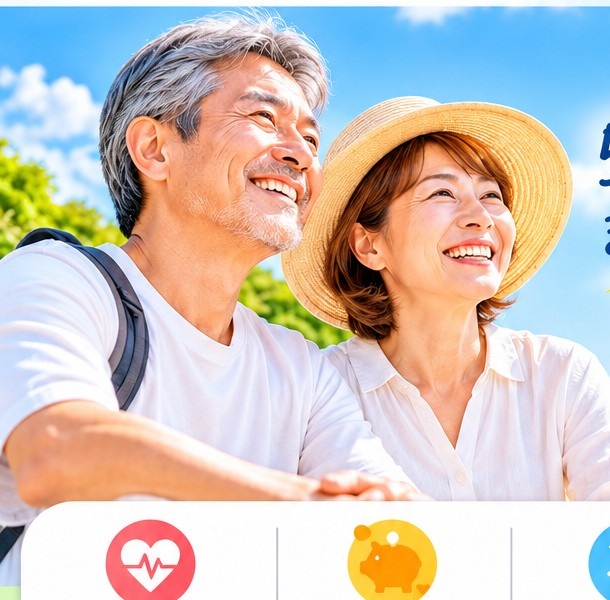
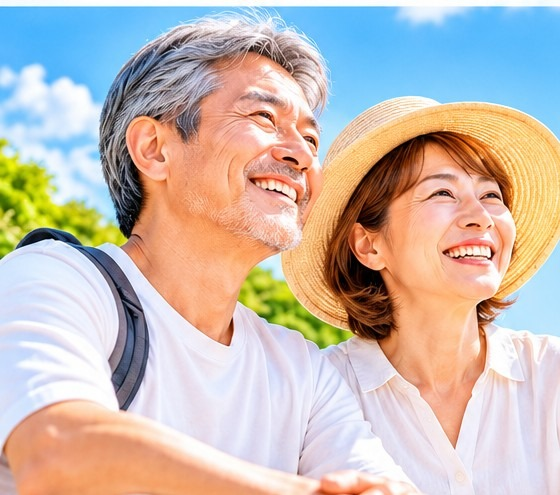
Add files via upload

diff --git a/index.html b/index.html
@@ -7,30 +7,44 @@
 <title>It's My Life 50+｜50代からの、もっと楽しい人生を</title>
 <style>
 :root{--blue:#07519a;--deep:#123e70;--sky:#eaf7ff;--green:#75bd39;--cream:#fbfff0;--gold:#f5c928}
-*{box-sizing:border-box}html{scroll-behavior:smooth}body{margin:0;font-family:"Hiragino Kaku Gothic ProN","Yu Gothic",Meiryo,sans-serif;color:#20334a;background:#f5fbff}
+*{box-sizing:border-box}html{scroll-behavior:smooth;scroll-padding-top:18px}
+body{margin:0;font-family:"Hiragino Kaku Gothic ProN","Yu Gothic",Meiryo,sans-serif;color:#20334a;background:#f5fbff}
 a{color:inherit;text-decoration:none}.wrap{max-width:1100px;margin:auto}
 header{background:linear-gradient(100deg,#fff 0%,#f4fbff 55%,#bce5ff 100%);padding:12px 4%;display:flex;align-items:center;gap:16px;position:relative;z-index:5}
 .tree{width:72px;height:72px;flex:none}.brand{min-width:0;color:var(--blue)}.brand-name{font-family:Georgia,serif;font-style:italic;font-weight:bold;font-size:clamp(28px,5vw,48px);line-height:1.05;white-space:nowrap}.tagline{font-size:clamp(12px,2.2vw,19px);font-weight:700;margin-top:5px;letter-spacing:.04em}
 .menu{margin-left:auto;border:0;border-radius:15px;background:#fff;color:var(--blue);font-size:29px;width:60px;height:54px;box-shadow:0 2px 10px #78a8c533;cursor:pointer}
-.hero{position:relative;min-height:480px;overflow:hidden;background:#8fd2fa}
-.hero-photo{position:absolute;inset:0;width:100%;height:100%;object-fit:cover;object-position:35% center}
-.hero:after{content:"";position:absolute;inset:0;background:linear-gradient(90deg,transparent 35%,rgba(226,246,255,.15) 48%,rgba(222,244,255,.92) 100%)}
-.hero-copy{position:relative;z-index:1;margin-left:auto;width:47%;padding:85px 5% 100px 0;color:var(--blue);text-align:center}
-.hero-copy h1{font-size:clamp(30px,5vw,56px);line-height:1.35;margin:0 0 24px;font-weight:900;letter-spacing:.02em}
-.underline{height:7px;width:82%;margin:-12px auto 28px;border-bottom:6px solid var(--gold);border-radius:50%;transform:rotate(-5deg)}
-.hero-copy p{font-weight:800;font-size:clamp(16px,2.2vw,23px);line-height:1.7;margin:0}
-.categories{position:relative;z-index:2;max-width:1000px;margin:-44px auto 0;padding:14px 10px;background:#fff;border-radius:28px;box-shadow:0 8px 20px #1a5c8b2b;display:grid;grid-template-columns:repeat(4,1fr)}
-.cat{display:flex;flex-direction:column;align-items:center;gap:7px;padding:8px 4px;color:#26384a;font-weight:800;font-size:clamp(13px,2vw,18px);border-right:1px solid #d5dce2}.cat:last-child{border:0}
-.cat-icon{width:58px;height:58px;border-radius:50%;display:grid;place-items:center;color:#fff;font-size:30px}.red{background:#ff6e75}.yellow{background:#ffc629}.cyan{background:#4db9e9}.lime{background:#78c83d}
-.welcome{padding:52px 5% 26px;text-align:center;background:linear-gradient(180deg,#f5ffdf,#fffef4 75%,#eff9ff)}
+.hero{display:grid;grid-template-columns:57% 43%;min-height:440px;background:linear-gradient(135deg,#d9f1ff,#effaff);overflow:hidden}
+.hero-visual{min-width:0;min-height:440px;overflow:hidden}
+.hero-photo{width:100%;height:100%;min-height:440px;display:block;object-fit:cover;object-position:center 37%}
+.hero-copy{display:flex;flex-direction:column;justify-content:center;align-items:center;padding:42px 8%;color:var(--blue);text-align:center;background:linear-gradient(145deg,#e6f6ff,#ccecff)}
+.hero-copy h1{font-size:clamp(30px,4.2vw,52px);line-height:1.4;margin:0 0 20px;font-weight:900;letter-spacing:.02em}
+.underline{height:7px;width:82%;margin:0 auto 24px;border-bottom:6px solid var(--gold);border-radius:50%;transform:rotate(-5deg)}
+.hero-copy p{font-weight:800;font-size:clamp(16px,2vw,22px);line-height:1.8;margin:0}
+.categories{position:relative;z-index:2;max-width:1000px;margin:-34px auto 0;padding:13px 10px;background:#fff;border-radius:26px;box-shadow:0 8px 20px #1a5c8b2b;display:grid;grid-template-columns:repeat(4,1fr)}
+.cat{display:flex;flex-direction:column;align-items:center;justify-content:center;gap:7px;padding:8px 4px;color:#26384a;font-weight:800;font-size:clamp(13px,2vw,18px);border-right:1px solid #d5dce2;text-align:center}
+.cat:last-child{border:0}.cat-icon{width:58px;height:58px;border-radius:50%;display:grid;place-items:center;color:#fff;font-size:30px}.red{background:#ff6e75}.yellow{background:#ffc629}.cyan{background:#4db9e9}.lime{background:#78c83d}
+.welcome{padding:48px 5% 26px;text-align:center;background:linear-gradient(180deg,#f5ffdf,#fffef4 75%,#eff9ff)}
 .welcome h2{color:#26384a;font-size:clamp(25px,4vw,42px);margin:0 0 18px;line-height:1.35}.welcome h2 em{font-family:Georgia,serif;color:var(--blue);font-weight:bold}
 .leaves{color:#70b83b;font-size:30px;letter-spacing:8px}.welcome p{font-size:clamp(16px,2.3vw,23px);line-height:1.8;font-weight:700;margin:0 auto 24px;max-width:850px}
-.cards{display:grid;grid-template-columns:repeat(3,1fr);gap:18px;max-width:1000px;margin:0 auto 40px;padding:0 4% 44px}
-.card{background:#fff;border-radius:18px;overflow:hidden;box-shadow:0 3px 9px #163c5b25;border:1px solid #dce5e8;transition:transform .2s}.card:hover{transform:translateY(-4px)}
-.card img{width:100%;height:175px;object-fit:cover;display:block}.card-label{padding:13px 12px;font-weight:800;font-size:clamp(15px,2vw,20px);display:flex;align-items:center;gap:9px}.arrow{background:#1599e8;color:white;width:24px;height:24px;border-radius:50%;display:grid;place-items:center;flex:none}
+.cards{display:grid;grid-template-columns:repeat(4,1fr);gap:18px;max-width:1000px;margin:0 auto 40px;padding:0 4% 44px}
+.card{background:#fff;border-radius:18px;overflow:hidden;box-shadow:0 3px 9px #163c5b25;border:1px solid #dce5e8;transition:transform .2s;display:block}
+.card:hover{transform:translateY(-4px)}.card img{width:100%;height:155px;object-fit:cover;display:block}
+.card-label{padding:13px 12px;font-weight:800;font-size:clamp(14px,1.55vw,18px);display:flex;align-items:center;gap:9px}
+.arrow{background:#1599e8;color:white;width:24px;height:24px;border-radius:50%;display:grid;place-items:center;flex:none}
+.work-art{height:155px;background:linear-gradient(135deg,#d8f4ff,#dff5d3);display:flex;flex-direction:column;align-items:center;justify-content:center;gap:8px;color:#17629a}
+.work-art span{font-size:66px;line-height:1}.work-art small{font-size:14px;font-weight:800}
 footer{text-align:center;padding:26px;background:#e5f5ff;color:#315575;font-size:14px}
-.drawer{display:none;position:absolute;right:4%;top:90px;background:#fff;border-radius:16px;box-shadow:0 8px 24px #173e5b30;padding:12px;min-width:190px}.drawer.open{display:grid}.drawer a{padding:12px;border-bottom:1px solid #edf1f4;color:var(--blue);font-weight:700}
-@media(max-width:650px){header{gap:9px;padding:10px 4%}.tree{width:54px;height:60px}.brand-name{font-size:clamp(24px,6vw,34px)}.tagline{font-size:11px}.menu{width:48px;height:46px;font-size:24px}.hero{min-height:430px}.hero-photo{object-position:28% center}.hero:after{background:linear-gradient(90deg,transparent 5%,rgba(224,245,255,.08) 42%,rgba(224,245,255,.88) 100%)}.hero-copy{width:53%;padding:85px 3% 100px 0}.hero-copy h1{font-size:clamp(23px,6vw,34px)}.hero-copy p{font-size:13px}.categories{margin:-38px 4% 0;padding:10px 4px;border-radius:22px}.cat{font-size:11px;gap:5px}.cat-icon{width:43px;height:43px;font-size:23px}.welcome{padding:38px 4% 20px}.welcome h2{font-size:24px}.welcome p{font-size:15px}.cards{gap:9px;padding:0 3% 30px}.card{border-radius:13px}.card img{height:105px}.card-label{font-size:12px;padding:9px 6px;gap:5px}.arrow{width:19px;height:19px;font-size:13px}}
+.drawer{display:none;position:absolute;right:4%;top:90px;background:#fff;border-radius:16px;box-shadow:0 8px 24px #173e5b30;padding:12px;min-width:190px}
+.drawer.open{display:grid}.drawer a{padding:12px;border-bottom:1px solid #edf1f4;color:var(--blue);font-weight:700}
+@media(max-width:700px){
+ header{gap:9px;padding:10px 4%}.tree{width:54px;height:60px}.brand-name{font-size:clamp(23px,6vw,34px)}.tagline{font-size:11px}.menu{width:48px;height:46px;font-size:24px}
+ .hero{display:flex;flex-direction:column;min-height:0}.hero-visual{height:290px;min-height:0}.hero-photo{height:290px;min-height:0;object-position:center 35%}
+ .hero-copy{padding:25px 7% 34px}.hero-copy h1{font-size:clamp(27px,7vw,36px);margin-bottom:12px}.underline{margin-bottom:16px}.hero-copy p{font-size:15px}
+ .categories{margin:-22px 4% 0;padding:9px 3px;border-radius:20px}.cat{font-size:11px;gap:5px;padding:6px 2px}.cat-icon{width:43px;height:43px;font-size:23px}
+ .welcome{padding:35px 4% 20px}.welcome h2{font-size:24px}.welcome p{font-size:15px}
+ .cards{grid-template-columns:repeat(2,minmax(0,1fr));gap:10px;padding:0 3% 30px}.card{border-radius:13px}.card img,.work-art{height:120px}.card-label{font-size:13px;padding:9px 7px;gap:5px}.arrow{width:19px;height:19px;font-size:13px}.work-art span{font-size:52px}.work-art small{font-size:12px}
+}
+@media(min-width:701px) and (max-width:900px){.cards{gap:12px}.card img,.work-art{height:135px}.card-label{font-size:14px;padding:10px 8px}}
 </style>
 </head>
 <body>
@@ -38,21 +52,25 @@ footer{text-align:center;padding:26px;background:#e5f5ff;color:#315575;font-size
 <svg class="tree" viewBox="0 0 100 100" aria-label="木のロゴ"><path d="M49 91V43M49 63L29 47M50 57L72 39M49 75L27 67M50 73L73 61" stroke="#65ad35" stroke-width="5" fill="none" stroke-linecap="round"/><g fill="#79c83d"><circle cx="49" cy="17" r="10"/><circle cx="30" cy="25" r="9"/><circle cx="68" cy="23" r="9"/><circle cx="19" cy="42" r="8"/><circle cx="80" cy="42" r="8"/><circle cx="37" cy="43" r="8"/><circle cx="61" cy="43" r="8"/></g><path d="M18 94Q49 82 82 94" stroke="#65ad35" stroke-width="4" fill="none"/></svg>
 <div class="brand"><div class="brand-name">It's My Life 50+</div><div class="tagline">〜 50代からの、もっと楽しい人生を 〜</div></div>
 <button class="menu" aria-label="メニュー" onclick="document.querySelector('.drawer').classList.toggle('open')">☰</button>
-<nav class="drawer"><a href="#health">健康・カラダ</a><a href="#money">お金・資産</a><a href="#travel">趣味・旅行</a><a href="#work">仕事・副業</a></nav>
+<nav class="drawer"><a href="#health-card" onclick="document.querySelector('.drawer').classList.remove('open')">健康・カラダ</a><a href="#money-card" onclick="document.querySelector('.drawer').classList.remove('open')">お金・資産</a><a href="#travel-card" onclick="document.querySelector('.drawer').classList.remove('open')">趣味・旅行</a><a href="#work-card" onclick="document.querySelector('.drawer').classList.remove('open')">仕事・副業</a></nav>
 </header>
 <main class="wrap">
-<section class="hero"><img class="hero-photo" src="hero-couple.jpg" alt="海辺で笑顔を見せるシニア夫婦"><div class="hero-copy"><h1>50代からの人生は、<br>まだまだこれから！</h1><div class="underline"></div><p>健康・お金・趣味・仕事…<br>これからの毎日をもっと豊かに</p></div></section>
+<section class="hero">
+<div class="hero-visual"><img class="hero-photo" src="hero-couple.jpg" alt="海辺で笑顔を見せるシニア夫婦"></div>
+<div class="hero-copy"><h1>50代からの人生は、<br>まだまだこれから！</h1><div class="underline"></div><p>健康・お金・趣味・仕事…<br>これからの毎日をもっと豊かに</p></div>
+</section>
 <nav class="categories" aria-label="カテゴリー">
-<a class="cat" id="health" href="#health-card"><span class="cat-icon red">♡</span>健康・カラダ</a>
-<a class="cat" id="money" href="#money-card"><span class="cat-icon yellow">🐷</span>お金・資産</a>
-<a class="cat" id="travel" href="#travel-card"><span class="cat-icon cyan">✈</span>趣味・旅行</a>
-<a class="cat" id="work" href="#work-card"><span class="cat-icon lime">▣</span>仕事・副業</a>
+<a class="cat" href="#health-card"><span class="cat-icon red">♡</span>健康・カラダ</a>
+<a class="cat" href="#money-card"><span class="cat-icon yellow">🐷</span>お金・資産</a>
+<a class="cat" href="#travel-card"><span class="cat-icon cyan">✈</span>趣味・旅行</a>
+<a class="cat" href="#work-card"><span class="cat-icon lime">▣</span>仕事・副業</a>
 </nav>
 <section class="welcome"><div class="leaves">❧</div><h2>ようこそ！ <em>It's My Life 50+</em> へ</h2><p>50代からの人生を、もっと健康に、もっと楽しく、<br>もっと自由に。あなたの「これから」を応援します！</p></section>
 <section class="cards">
-<a class="card" id="health-card" href="#health"><img src="health.jpg" alt="健康づくりのイメージ"><div class="card-label"><span class="arrow">›</span>健康で元気な毎日</div></a>
-<a class="card" id="money-card" href="#money"><img src="money.jpg" alt="資産づくりのイメージ"><div class="card-label"><span class="arrow">›</span>安心の資産づくり</div></a>
-<a class="card" id="travel-card" href="#travel"><img src="travel.jpg" alt="南国の海辺のイメージ"><div class="card-label"><span class="arrow">›</span>人生を楽しむ旅</div></a>
+<a class="card" id="health-card" href="#health-card"><img src="health.jpg" alt="健康づくりのイメージ"><div class="card-label"><span class="arrow">›</span>健康で元気な毎日</div></a>
+<a class="card" id="money-card" href="#money-card"><img src="money.jpg" alt="資産づくりのイメージ"><div class="card-label"><span class="arrow">›</span>安心の資産づくり</div></a>
+<a class="card" id="travel-card" href="#travel-card"><img src="travel.jpg" alt="南国の海辺のイメージ"><div class="card-label"><span class="arrow">›</span>人生を楽しむ旅</div></a>
+<a class="card" id="work-card" href="#work-card"><div class="work-art"><span>💻</span><small>50代からの新しい挑戦</small></div><div class="card-label"><span class="arrow">›</span>仕事・副業に挑戦</div></a>
 </section>
 </main>
 <footer>© It's My Life 50+　〜 50代からの、もっと楽しい人生を 〜</footer>
